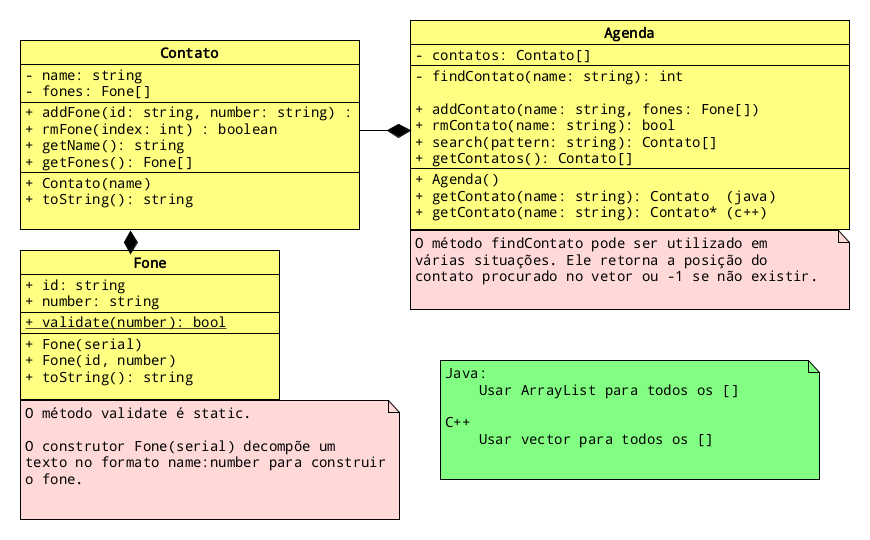
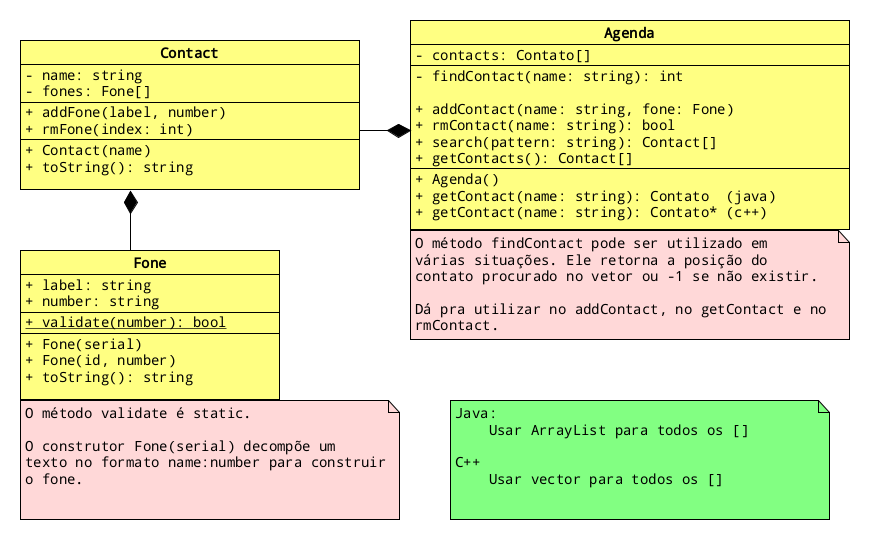
fix busca

diff --git a/base/015/Readme.md b/base/015/Readme.md
@@ -89,11 +89,45 @@ $end
 
 ***
 ## Ajuda
-- Inserção
-    - Utilizar uma estrutura linear, tal como um vector(c++) ou ArrayList(Java), mas lembrar de reordenar o vetor para cada nova inserção de contato.
-- Busca: 
-    - Na busca por pattern verifique faça uma busca usando a substring com o valor toString() to contato.
+- Você pode criar mais métodos auxiliares para lhe ajudar.
 - Crie um construtor para o Fone que aceite um único parâmetro, no caso o serial "oi:13123"
+- Para receber vários telefones por linha você pode fazer um laço pegando a partir do índice 2.
+- O construtor que recebe um serial pode ser utilizado para instanciar um Fone
+```java
+if(ui[0].equals("add")){ //add julia tim:99 oi:123 vivo:123544
+    for(int i = 2; i < ui.length; i++)
+        agenda.add(ui[1], new Fone(ui[i]));
+}
+```
+
+- A sua função add deve criar um contato novo se o contato não existir e então adicionar o telefone
+```java
+void add(String name, Fone fone){
+    Contact contact = this.getContact(name);
+    if(contact == null){ //cria e adiciona o contato se ele nao existir
+        contact = new Contact(name);
+        this.contacts.add(contact);
+    }
+    contact.addFone(fone);  //aproveita para adicionar o telefone
+    //ordene ser vetor
+}
+```
+
+- Para fazer a busca por padrão você pode criar uma lista auxiliar de contatos.
+- Na busca por pattern verifique faça uma busca usando a substring com o valor toString() to contato.
+
+```java
+ArrayList<Contact> search(String pattern){
+    ArrayList<Contact> result = new ArrayList<>();
+    for(Contact contact : this.contacts){
+        if ... //se esse contato bater com o padrão
+            result.add(contact);
+    }
+    return result;
+}
+```
+
+
 
 ***
 ## Main não interativa
